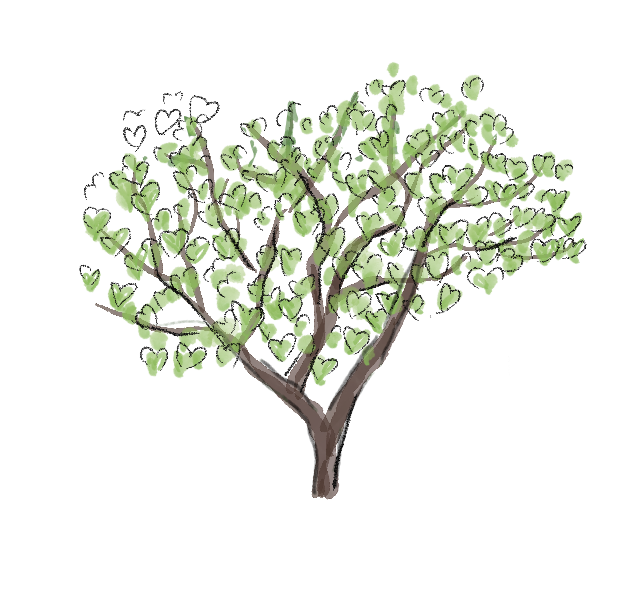
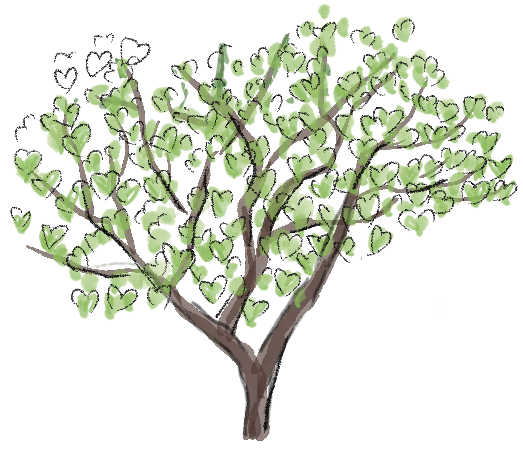
Get plant to highlight when modal open

diff --git a/src/lib/utils.ts b/src/lib/utils.ts
@@ -1,0 +1,6 @@
+import { clsx, type ClassValue } from "clsx";
+import { twMerge } from "tailwind-merge";
+
+export function cx(...inputs: ClassValue[]) {
+  return twMerge(clsx(inputs));
+}
